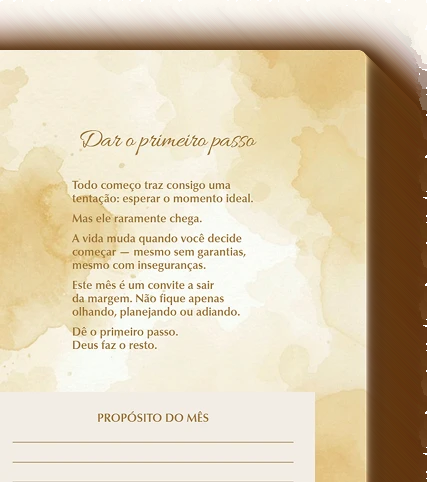
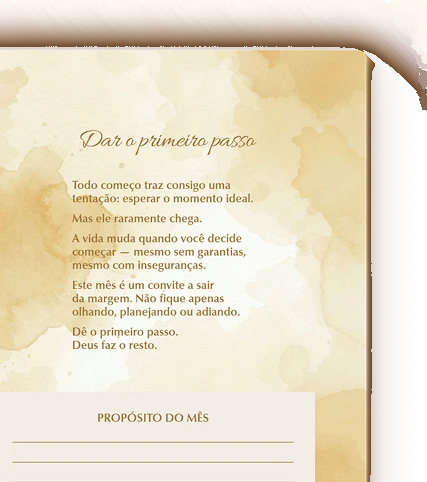
Cap sections to the hero and quiet the desktop cart
The gold About panel, the closing card and the footer stop at the
hero's usable width, with the same side margins on small screens.
Sections that were already narrower stay as they are.

On desktop the cart is a basket with the real quantity as plain text.
The compact bar fades in with the section links, a smaller Comprar
and that same basket. Explore pins use the blue #0054AC, and Ofertas
e Condições no longer has side rules.

The brown blocks on the About pages were a flattened drop shadow.
Those pixels are soft again; the opaque paper edges stay put.

Changed region(s): [[0.8525, 0.0934, 1.0, 1.0], [0.0, 0.0934, 0.822, 0.1245]]

diff --git a/src/sections/SiteHeader.tsx b/src/sections/SiteHeader.tsx
@@ -13,7 +13,6 @@ import {
 import { NAV_LINKS } from "@content/home";
 import {
   CART_URL,
-  CYCLE_YEAR,
   INSTAGRAM_URL,
   OFFER_ANCHOR,
   PRODUCT_NAME,
@@ -74,45 +73,6 @@ function HeaderCart({ light = false }: { light?: boolean }) {
       <IconBasket />
       {count > 0 ? (
         <span className="absolute top-1 right-0.5 grid h-4 min-w-4 place-items-center rounded-pill bg-action px-1 text-[10px] leading-none font-bold text-on-action">
-          {count > 99 ? "99+" : count}
-        </span>
-      ) : null}
-    </>
-  );
-  if (!cart) {
-    return (
-      <a href={CART_URL} aria-label={label} className={className}>
-        {body}
-      </a>
-    );
-  }
-  return (
-    <button type="button" onClick={cart.openDrawer} aria-label={label} className={className}>
-      {body}
-    </button>
-  );
-}
-
-/**
- * Cart control for the desktop compact bar. Always visible, even at zero.
- * The white square is desktop-only; the badge is the real quantity.
- */
-function CompactCart() {
-  const cart = useOptionalCart();
-  const count = cart?.count ?? 0;
-  const label = count > 0
-    ? `Abrir carrinho, ${count} ${count === 1 ? "item" : "itens"}`
-    : "Abrir carrinho";
-  const className = cn(
-    "relative grid size-11 cursor-pointer place-items-center text-xl text-text-strong",
-    "lg:rounded-[10px] lg:bg-surface-plain lg:shadow-card",
-    "focus-visible:outline-2 focus-visible:outline-offset-2 focus-visible:outline-action",
-  );
-  const body = (
-    <>
-      <IconBasket />
-      {count > 0 ? (
-        <span className="absolute -top-1 -right-1 grid h-5 min-w-5 place-items-center rounded-pill bg-action px-1 text-[11px] leading-none font-bold text-on-action">
           {count > 99 ? "99+" : count}
         </span>
       ) : null}
@@ -299,7 +259,7 @@ export function SiteHeader({ smartMenu = false }: SiteHeaderProps) {
           open && "max-lg:bg-surface-inverse",
         )}
       >
-        <div className="mx-auto flex h-20 w-full max-w-[1316px] items-center justify-between gap-6 px-6 lg:px-0">
+        <div className="mx-auto flex h-20 w-full max-w-page items-center justify-between gap-6 px-6 lg:px-0">
           {/* ── Mobile: hamburger left ── */}
           <button
             ref={triggerRef}
@@ -382,20 +342,37 @@ export function SiteHeader({ smartMenu = false }: SiteHeaderProps) {
           inert={compactDesktop ? undefined : true}
           style={{ top: headerTop }}
           className={cn(
-            "fixed inset-x-0 z-40 hidden h-14 bg-surface shadow-float transition-opacity duration-300 motion-reduce:transition-none lg:flex",
+            "fixed inset-x-0 z-40 hidden h-14 bg-surface shadow-card transition-opacity duration-300 motion-reduce:transition-none lg:flex",
             "pl-[max(1.25rem,env(safe-area-inset-left,0px))] pr-[max(1.25rem,env(safe-area-inset-right,0px))]",
             compactDesktop
               ? "lg:pointer-events-auto lg:opacity-100"
               : "lg:pointer-events-none lg:opacity-0",
           )}
         >
-          <div className="mx-auto flex h-full w-full max-w-[1316px] items-center justify-between gap-2">
-            <a href="#inicio" className="flex shrink-0 items-center">
-              <img src={logo} alt={PRODUCT_NAME} className="h-10 w-auto" />
+          <div className="mx-auto flex h-full w-full max-w-page items-center gap-3">
+            <a href="#inicio" className="flex shrink-0 items-center" aria-label={PRODUCT_NAME}>
+              {/* Same seal as the main header, at the compact bar's height.
+                  The reference crop was not in the workspace, so this SVG
+                  keeps the mark's own proportions. */}
+              <img src={logo} alt="" className="h-9 w-auto" />
             </a>
-            <div className="flex items-center gap-2">
-              <CompactCart />
-              <Button href={OFFER_ANCHOR} size="md" shape="block" className="px-4! lg:px-5!">
+            <nav aria-label="Principal" className="min-w-0 flex-1">
+              <ul className="flex flex-nowrap items-center justify-center gap-x-3 xl:gap-x-5">
+                {NAV_LINKS.map((link) => (
+                  <li key={link.href}>
+                    <a
+                      href={link.href}
+                      className="text-[11px] font-bold whitespace-nowrap text-text-strong transition-colors [transition-duration:var(--duration-fast)] hover:text-action xl:text-xs"
+                    >
+                      {link.label}
+                    </a>
+                  </li>
+                ))}
+              </ul>
+            </nav>
+            <div className="flex shrink-0 items-center gap-1.5">
+              <CartButton />
+              <Button href={OFFER_ANCHOR} size="md" shape="block" className="h-9! px-3! text-xs!">
                 Comprar
               </Button>
             </div>

diff --git a/src/features/cart/CartButton.tsx b/src/features/cart/CartButton.tsx
@@ -1,34 +1,46 @@
 "use client";
 
-import { Button, IconBasket } from "@ds/index";
+import { IconBasket, cn } from "@ds/index";
 import { useOptionalCart } from "./CartProvider";
 
+type CartButtonProps = {
+  className?: string;
+};
+
 /**
- * Botão do carrinho no cabeçalho. Só aparece dentro da loja (com
- * CartProvider) e com algo no carrinho: fora disso não há o que mostrar.
- * No celular fica só o ícone com a contagem, para caber ao lado do "Comprar".
+ * Desktop basket. Icon on the header surface, with the real quantity as
+ * plain text beside it. No tile, no circle, no badge. An empty cart is the
+ * icon alone. Hidden when there is no cart provider (institutional pages).
+ * The phone header uses its own control and does not render this one.
  */
-export function CartButton() {
+export function CartButton({ className }: CartButtonProps) {
   const cart = useOptionalCart();
-  if (!cart || cart.count === 0) return null;
+  if (!cart) return null;
+
+  const count = cart.count;
+  const label = count > 0
+    ? `Abrir carrinho, ${count} ${count === 1 ? "item" : "itens"}`
+    : "Abrir carrinho";
+  const classes = cn(
+    "inline-flex h-11 min-w-11 cursor-pointer items-center justify-center gap-1.5 rounded-card px-2 text-xl text-text-strong",
+    "transition-colors [transition-duration:var(--duration-fast)] hover:text-action",
+    "focus-visible:outline-2 focus-visible:outline-offset-2 focus-visible:outline-action",
+    className,
+  );
+  const body = (
+    <>
+      <IconBasket />
+      {count > 0 ? (
+        <span className="text-sm font-bold tabular-nums leading-none">
+          {count > 99 ? "99+" : count}
+        </span>
+      ) : null}
+    </>
+  );
 
   return (
-    <Button
-      variant="secondary"
-      shape="block"
-      onClick={cart.openDrawer}
-      aria-label={`Abrir carrinho, ${cart.count} ${cart.count === 1 ? "item" : "itens"}`}
-      // Same Button as the "Comprar" next to it, so both always share the
-      // exact height and font; only the padding is tighter, to fit the count.
-      // The border is white: the default one is nearly transparent and made
-      // the white fill look 1px shorter than Comprar at the top and bottom.
-      className="border-surface-plain! px-3! hover:border-action! sm:px-4!"
-    >
-      <IconBasket className="text-lg sm:hidden" />
-      <span className="max-sm:hidden">Carrinho</span>
-      <span className="grid min-w-6 place-items-center rounded-pill bg-action px-1.5 text-xs font-bold text-on-action">
-        {cart.count}
-      </span>
-    </Button>
+    <button type="button" onClick={cart.openDrawer} aria-label={label} className={classes}>
+      {body}
+    </button>
   );
 }

diff --git a/src/ds/styles/tokens.css b/src/ds/styles/tokens.css
@@ -27,10 +27,9 @@
   --brand-moss-600: rgb(18 69 86);     /* display do hero */
   --brand-moss-500: rgb(28 88 108);    /* hover do botão */
   --brand-moss-100: rgb(15 63 79 / 0.15); /* moss-700 at 15%: text selection */
-  /* Olive of the old Framer hotspot pins. The petrol palette replaced this
-     green everywhere else; the pins stay olive so they match that site. */
-  --brand-olive-700: rgb(52 76 36);
-  --brand-olive-600: rgb(68 98 48);
+  /* Explore pins. #0054AC, with a darker step for hover. */
+  --brand-blue-700: rgb(0 84 172);
+  --brand-blue-800: rgb(0 64 138);
   --brand-sage-300: rgb(208 209 177); /* superfície da seção de oferta */
   --brand-clay-800: rgb(139 80 42);   /* cards da seção "Sobre" */
   --brand-amber-400: rgb(255 196 102);
@@ -156,8 +155,8 @@
   /* AÇÃO — fundo de botão. É verde. Separado de `accent` de propósito:
      conflatar os dois foi o erro que inverteu a paleta inteira. */
   --color-action: var(--brand-moss-700);
-  --color-hotspot: var(--brand-olive-700);           /* Explore "+" pins, Framer olive */
-  --color-hotspot-hover: var(--brand-olive-600);
+  --color-hotspot: var(--brand-blue-700);           /* Explore "+" pins, #0054AC */
+  --color-hotspot-hover: var(--brand-blue-800);
   --color-action-track: var(--brand-moss-100);       /* hover of outlined petrol buttons */
   --color-text-idle: var(--brand-stone-400);         /* idle edition tab label */
   --color-action-hover: var(--brand-moss-500);
@@ -314,6 +313,9 @@
      --------------------------------------------------------------------- */
   --container-content: 1200px;
   --container-prose: 640px;
+  /* Hero usable width: the 1380px frame minus 32px of padding on each side.
+     Sections may be narrower. They do not grow past this. */
+  --container-page: 1316px;
 
   --spacing-section: 96px;
   --spacing-section-sm: 64px;
@@ -338,7 +340,7 @@
   --shadow-book: -14px 18px 28px rgb(0 0 0 / 0.24);
   --shadow-book-back: 0 12px 24px rgb(0 0 0 / 0.22);
   --shadow-pop: 0 4px 4px rgb(0 0 0 / 0.1);          /* cartão de preço sobre as agendas do hero */
-  --shadow-hotspot: 0 2px 8px rgb(0 0 0 / 0.2);       /* marcadores "+" sobre a capa */
+  --shadow-hotspot: 0 0 0 4px rgb(0 84 172 / 0.28);  /* halo of the Explore "+" pins */
   --shadow-faq-card: 0 1px 2px rgb(0 0 0 / 0.18);    /* FAQ cards (Figma 949:177) */
   --shadow-cta-gold: 0 12px 12px rgb(0 0 0 / 0.3);   /* gold button of the closing card (Figma 949:145) */
   --shadow-cta-warm: 0 12px 24px rgb(0 0 0 / 0.3);   /* botão quente do fechamento */

diff --git a/src/sections/Explore.tsx b/src/sections/Explore.tsx
@@ -421,7 +421,7 @@ function Hotspots({ items, open, onOpen }: HotspotsProps) {
           {/* White ring that grows to 1.8× the pin, as on the old site. */}
           <span
             aria-hidden
-            className="pointer-events-none absolute inset-0 rounded-pill border-2 border-on-action opacity-0 motion-safe:animate-pin-pulse"
+            className="pointer-events-none absolute inset-0 rounded-pill border-2 border-hotspot opacity-0 motion-safe:animate-pin-pulse"
           />
           {/* Drawn at 20 / 26 / 28px; the ::before grows the hit area to 44px. */}
           <button
@@ -432,7 +432,7 @@ function Hotspots({ items, open, onOpen }: HotspotsProps) {
             aria-expanded={open === i}
             aria-label={s.title}
             onClick={() => onOpen(open === i ? null : i)}
-            className="relative flex size-full cursor-pointer items-center justify-center rounded-pill border-2 border-on-action/80 bg-hotspot p-0 text-on-action shadow-hotspot transition-colors [transition-duration:var(--duration-fast)] before:absolute before:-inset-2.5 hover:bg-hotspot-hover"
+            className="relative flex size-full cursor-pointer items-center justify-center rounded-pill border-2 border-hotspot bg-hotspot p-0 text-on-action shadow-hotspot transition-colors [transition-duration:var(--duration-fast)] before:absolute before:-inset-2.5 hover:bg-hotspot-hover"
           >
             <svg
               aria-hidden
@@ -477,7 +477,8 @@ function Hotspots({ items, open, onOpen }: HotspotsProps) {
  *     below md and stays 607px from md, so switching tabs does not jump;
  *   - the hotspot card is anchored to the pin at every width and shifted
  *     so it stays inside the viewport. Pins are 20px below md, 26px through
- *     tablet and 28px from 1200px, in the old site's olive.
+ *     tablet and 28px from 1200px. Circle, border, halo and hover are #0054AC;
+ *     the plus stays white so it keeps contrast on that blue.
  */
 export function Explore() {
   const [edition, setEdition] = useState<string>(AGENDA_EDITIONS[0].id);

diff --git a/src/sections/About.tsx b/src/sections/About.tsx
@@ -192,24 +192,23 @@ export function AboutHeader() {
 }
 
 /**
- * Seção "Sobre": cabeçalho centralizado + grade de quatro FeatureCards.
+ * About: centered header and a grid of four feature cards.
  *
- * Desktop (≥ 1440): exatamente o wireframe — duas colunas de 586 px com 28 de
- * vão, a grade ocupando os 1200 px do Container (por isso o `-mx-10`, que
- * devolve à grade o respiro interno do Container, como já acontecia antes).
+ * Desktop: two 586px columns with a 28px gap. The grid fills the 1200px
+ * Container (`-mx-10` cancels that Container's own padding).
  *
- * Telas menores: a coluna nunca passa de 586 px, mas pode encolher até a
- * largura disponível — e o card encolhe proporcionalmente (ver FeatureCard).
- *   < 1024  uma coluna, card com a largura do conteúdo (máx. 586)
- *   ≥ 1024  duas colunas fluidas, que chegam a 586 px a partir de ~1330
- * No celular a seção dispensa o próprio respiro lateral (o Container já dá
- * 24 px) e usa respiros verticais menores.
+ * The gold panel itself stops at the hero's usable width (`max-w-page`,
+ * 1316px) and keeps the hero's side margins (24px, 32px from `md`). It used
+ * to run out to 1440px, past the hero. The cards are not scaled down to
+ * achieve that: a narrower viewport just shrinks the panel around them.
+ *   < 1024  one column, card at most 586px
+ *   ≥ 1024  two fluid columns, reaching 586px once the panel is wide enough
  */
 export function About() {
   return (
     <section
       id="sobre"
-      className="relative mx-4 overflow-clip rounded-[40px] bg-surface-gold pt-24 pb-16 md:mx-auto md:max-w-[1440px] md:rounded-[90px] md:pt-[208px] md:pb-[117px]"
+      className="relative mx-auto w-[calc(100%-3rem)] max-w-page overflow-clip rounded-[40px] bg-surface-gold pt-24 pb-16 md:w-[calc(100%-4rem)] md:rounded-[90px] md:pt-[208px] md:pb-[117px]"
     >
       {/* Aquarela do Figma (949:892), cortada pelos cantos arredondados da seção. */}
       <img

diff --git a/src/sections/Product.tsx b/src/sections/Product.tsx
@@ -13,15 +13,14 @@ import { BenefitList } from "./BenefitList";
  * holding one big white watercolor card. The heading, the PurchasePanel card
  * and the feature list all live inside that big card.
  *
- * The top and bottom rules are 4px. The side rules are 6px: they were absent,
- * and the brief asks for a slightly heavier gold edge without narrowing the
- * inner grid.
+ * Top and bottom gold rules are 4px. There is no left or right rule: a side
+ * border read as a frame and stole a few pixels from the band.
  */
 export function Product({ offer }: { offer: ProductOffer }) {
   return (
     <section
       id="oferta"
-      className="relative isolate scroll-mt-24 overflow-hidden border-y-4 border-x-[6px] border-gold-start bg-action px-4 py-12 sm:px-6 lg:py-24"
+      className="relative isolate scroll-mt-24 overflow-hidden border-y-4 border-gold-start bg-action px-4 py-12 sm:px-6 lg:py-24"
     >
       {/* eslint-disable-next-line @next/next/no-img-element */}
       <img
@@ -31,7 +30,7 @@ export function Product({ offer }: { offer: ProductOffer }) {
         className="pointer-events-none absolute inset-0 -z-10 size-full object-cover opacity-[0.09]"
       />
 
-      <div className="relative mx-auto w-full max-w-[1316px] overflow-hidden rounded-[32px] bg-surface-plain px-4 py-12 sm:px-8 lg:rounded-[90px] lg:px-16 lg:py-24">
+      <div className="relative mx-auto w-full max-w-page overflow-hidden rounded-[32px] bg-surface-plain px-4 py-12 sm:px-8 lg:rounded-[90px] lg:px-16 lg:py-24">
         {/* eslint-disable-next-line @next/next/no-img-element */}
         <img
           src="/img/offer/card-watercolor.webp"

diff --git a/src/sections/SiteFooter.tsx b/src/sections/SiteFooter.tsx
@@ -29,7 +29,7 @@ const [copyrightLine1, copyrightLine2] = FOOTER.copyright.split(". ");
  *
  * No background of its own: the watercolor is the backdrop shared with the FAQ
  * and the closing card, painted by the home page (Figma "BG inferior", 949:15).
- * The content sits in a 1440px column.
+ * The content sits in the hero's usable column (`max-w-page`, 1316px).
  *
  * Content (Figma measurements, 1440px column, y relative to the logo): 106x143
  * logo at 0, 391px tagline at 172 (20/24), 16px bold links at 324, copyright
@@ -43,7 +43,7 @@ const [copyrightLine1, copyrightLine2] = FOOTER.copyright.split(". ");
 export function SiteFooter() {
   return (
     <footer className="relative w-full">
-      <div className="mx-auto w-full max-w-[1440px] px-4 pb-20 pt-20 sm:px-6 md:pb-32 md:pt-28 min-[1440px]:px-0 min-[1440px]:pb-[231px] min-[1440px]:pt-[120px]">
+      <div className="mx-auto w-full max-w-page px-6 pb-20 pt-20 md:pb-32 md:pt-28 min-[1440px]:px-0 min-[1440px]:pb-[231px] min-[1440px]:pt-[120px]">
         <RevealGroup className="flex flex-col items-center text-center">
           <Reveal variant="up">
             <Image

diff --git a/src/sections/Closing.tsx b/src/sections/Closing.tsx
@@ -23,7 +23,7 @@ export function Closing() {
   return (
     <section
       id="fechamento-bloco"
-      className="relative mx-auto w-full max-w-[1440px] px-4 pb-8 pt-2 sm:px-6 md:pb-12 lg:px-10 min-[1440px]:px-[81px] min-[1440px]:pb-[49px] min-[1440px]:pt-0"
+      className="relative mx-auto w-full max-w-page px-6 pb-8 pt-2 md:pb-12 lg:px-10 min-[1316px]:px-0 min-[1440px]:pb-[49px] min-[1440px]:pt-0"
     >
       <RevealGroup>
         <Reveal variant="up">
